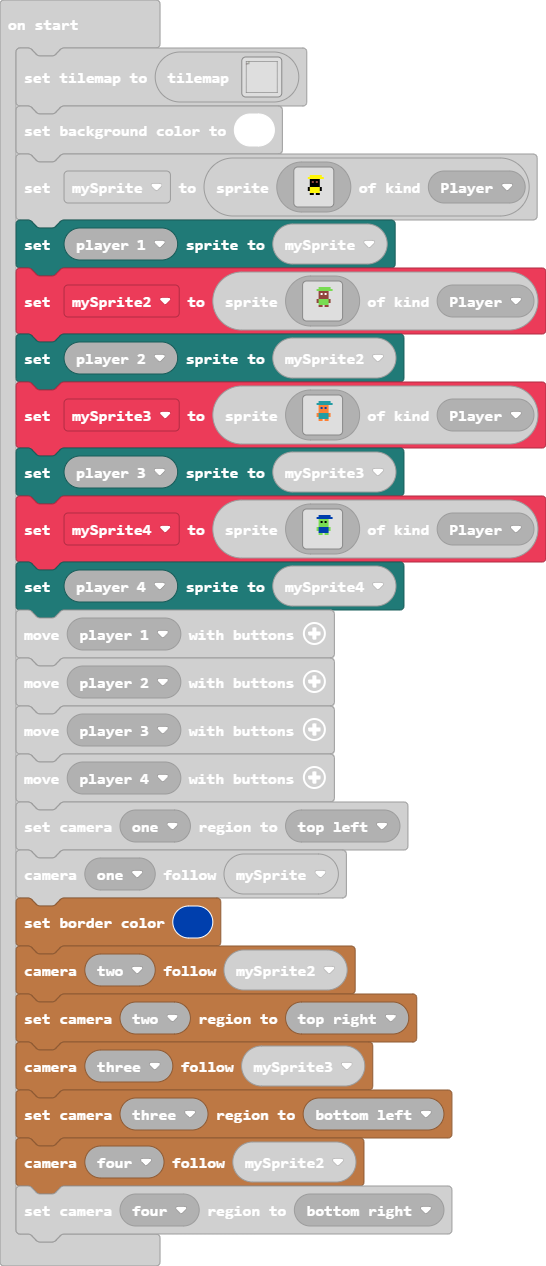
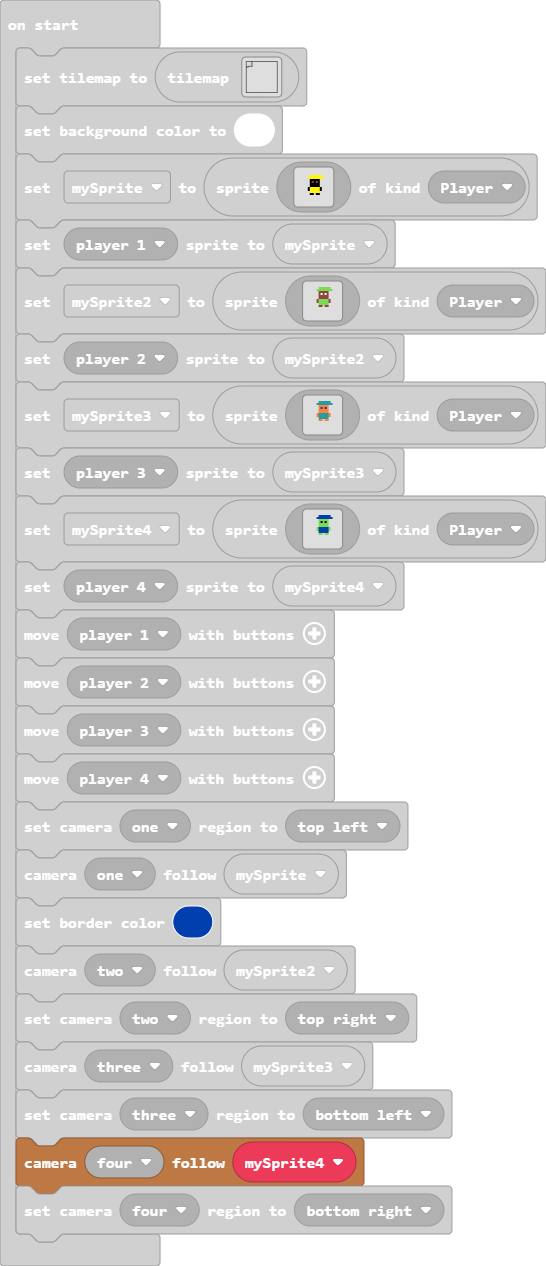
Update main.blocks, main.ts, tilemap.g.jres, tilemap.g.ts

Changed region(s): [[0.0, 0.154, 1.0, 0.4929], [0.0, 0.7085, 0.8407, 0.955]]

diff --git a/tilemap.g.ts b/tilemap.g.ts
@@ -73,107 +73,57 @@ namespace myTiles {
 . . . . . . . . . . . . . . . . 
 `, [myTiles.transparency16], TileScale.Sixteen);
             case "level1":
-            case "level1":return tiles.createTilemap(hex`6400640002020202020202020202020202020202020202020202020202020202020202020202020202020202020202020202020202020202020202020202020202020202020202020202020202020202020202020202020202020202020202020202020202020202020000000000000000020000000000000000000000000000000000000000000000000000000000000000000000000000000000000000000000000000000000000000000000000000000000000000000000000000000000000000000000000000000000020200000000000000000500000000000000000000000000000000000000000000000000000000000000000000000000000000000000000000000000000000000000000000000000000000000000000000000000000000000000000000000000000000000202000000000000000002000000000000000000000000000000000000000000000000000000000000000000000000000000000000000000000000000000000000000000000000000000000000000000000000000000000000000000000000000000000002020000000000000000020000000000000000000000000000000000000000000000000000000000000000000000000000000000000000000000000000000000000000000000000000000000000000000000000000000000000000000000000000000000020200000000000000000300000000000000000000000000000000000000000000000000000000000000000000000000000000000000000000000000000000000000000000000000000000000000000000000000000000000000000000000000000000000202000000000000000002000000000000000000000000000000000000000000000000000000000000000000000000000000000000000000000000000000000000000000000000000000000000000000000000000000000000000000000000000000000002020000000000000000020000000000000000000000000000000000000000000000000000000000000000000000000000000000000000000000000000000000000000000000000000000000000000000000000000000000000000000000000000000000020200000202020204020200000000000000000000000000000000000000000000000000000000000000000000000000000000000000000000000000000000000000000000000000000000000000000000000000000000000000000000000000000000000202020102000000000000000000000000000000000000000000000000000000000000000000000000000000000000000000000000000000000000000000000000000000000000000000000000000000000000000000000000000000000000000000000002020000000000000000000000000000000000000000000000000000000000000000000000000000000000000000000000000000000000000000000000000000000000000000000000000000000000000000000000000000000000000000000000000000020200000000000000000000000000000000000000000000000000000000000000000000000000000000000000000000000000000000000000000000000000000000000000000000000000000000000000000000000000000000000000000000000000000202000000000000000000000000000000000000000000000000000000000000000000000000000000000000000000000000000000000000000000000000000000000000000000000000000000000000000000000000000000000000000000000000000002020000000000000000000000000000000000000000000000000000000000000000000000000000000000000000000000000000000000000000000000000000000000000000000000000000000000000000000000000000000000000000000000000000020200000000000000000000000000000000000000000000000000000000000000000000000000000000000000000000000000000000000000000000000000000000000000000000000000000000000000000000000000000000000000000000000000000202000000000000000000000000000000000000000000000000000000000000000000000000000000000000000000000000000000000000000000000000000000000000000000000000000000000000000000000000000000000000000000000000000002020000000000000000000000000000000000000000000000000000000000000000000000000000000000000000000000000000000000000000000000000000000000000000000000000000000000000000000000000000000000000000000000000000020200000000000000000000000000000000000000000000000000000000000000000000000000000000000000000000000000000000000000000000000000000000000000000000000000000000000000000000000000000000000000000000000000000202000000000000000000000000000000000000000000000000000000000000000000000000000000000000000000000000000000000000000000000000000000000000000000000000000000000000000000000000000000000000000000000000000002020000000000000000000000000000000000000000000000000000000000000000000000000000000000000000000000000000000000000000000000000000000000000000000000000000000000000000000000000000000000000000000000000000020200000000000000000000000000000000000000000000000000000000000000000000000000000000000000000000000000000000000000000000000000000000000000000000000000000000000000000000000000000000000000000000000000000202000000000000000000000000000000000000000000000000000000000000000000000000000000000000000000000000000000000000000000000000000000000000000000000000000000000000000000000000000000000000000000000000000002020000000000000000000000000000000000000000000000000000000000000000000000000000000000000000000000000000000000000000000000000000000000000000000000000000000000000000000000000000000000000000000000000000020200000000000000000000000000000000000000000000000000000000000000000000000000000000000000000000000000000000000000000000000000000000000000000000000000000000000000000000000000000000000000000000000000000202000000000000000000000000000000000000000000000000000000000000000000000000000000000000000000000000000000000000000000000000000000000000000000000000000000000000000000000000000000000000000000000000000002020000000000000000000000000000000000000000000000000000000000000000000000000000000000000000000000000000000000000000000000000000000000000000000000000000000000000000000000000000000000000000000000000000020200000000000000000000000000000000000000000000000000000000000000000000000000000000000000000000000000000000000000000000000000000000000000000000000000000000000000000000000000000000000000000000000000000202000000000000000000000000000000000000000000000000000000000000000000000000000000000000000000000000000000000000000000000000000000000000000000000000000000000000000000000000000000000000000000000000000002020000000000000000000000000000000000000000000000000000000000000000000000000000000000000000000000000000000000000000000000000000000000000000000000000000000000000000000000000000000000000000000000000000020200000000000000000000000000000000000000000000000000000000000000000000000000000000000000000000000000000000000000000000000000000000000000000000000000000000000000000000000000000000000000000000000000000202000000000000000000000000000000000000000000000000000000000000000000000000000000000000000000000000000000000000000000000000000000000000000000000000000000000000000000000000000000000000000000000000000002020000000000000000000000000000000000000000000000000000000000000000000000000000000000000000000000000000000000000000000000000000000000000000000000000000000000000000000000000000000000000000000000000000020200000000000000000000000000000000000000000000000000000000000000000000000000000000000000000000000000000000000000000000000000000000000000000000000000000000000000000000000000000000000000000000000000000202000000000000000000000000000000000000000000000000000000000000000000000000000000000000000000000000000000000000000000000000000000000000000000000000000000000000000000000000000000000000000000000000000002020000000000000000000000000000000000000000000000000000000000000000000000000000000000000000000000000000000000000000000000000000000000000000000000000000000000000000000000000000000000000000000000000000020200000000000000000000000000000000000000000000000000000000000000000000000000000000000000000000000000000000000000000000000000000000000000000000000000000000000000000000000000000000000000000000000000000202000000000000000000000000000000000000000000000000000000000000000000000000000000000000000000000000000000000000000000000000000000000000000000000000000000000000000000000000000000000000000000000000000002020000000000000000000000000000000000000000000000000000000000000000000000000000000000000000000000000000000000000000000000000000000000000000000000000000000000000000000000000000000000000000000000000000020200000000000000000000000000000000000000000000000000000000000000000000000000000000000000000000000000000000000000000000000000000000000000000000000000000000000000000000000000000000000000000000000000000202000000000000000000000000000000000000000000000000000000000000000000000000000000000000000000000000000000000000000000000000000000000000000000000000000000000000000000000000000000000000000000000000000002020000000000000000000000000000000000000000000000000000000000000000000000000000000000000000000000000000000000000000000000000000000000000000000000000000000000000000000000000000000000000000000000000000020200000000000000000000000000000000000000000000000000000000000000000000000000000000000000000000000000000000000000000000000000000000000000000000000000000000000000000000000000000000000000000000000000000202000000000000000000000000000000000000000000000000000000000000000000000000000000000000000000000000000000000000000000000000000000000000000000000000000000000000000000000000000000000000000000000000000002020000000000000000000000000000000000000000000000000000000000000000000000000000000000000000000000000000000000000000000000000000000000000000000000000000000000000000000000000000000000000000000000000000020200000000000000000000000000000000000000000000000000000000000000000000000000000000000000000000000000000000000000000000000000000000000000000000000000000000000000000000000000000000000000000000000000000202000000000000000000000000000000000000000000000000000000000000000000000000000000000000000000000000000000000000000000000000000000000000000000000000000000000000000000000000000000000000000000000000000002020000000000000000000000000000000000000000000000000000000000000000000000000000000000000000000000000000000000000000000000000000000000000000000000000000000000000000000000000000000000000000000000000000020200000000000000000000000000000000000000000000000000000000000000000000000000000000000000000000000000000000000000000000000000000000000000000000000000000000000000000000000000000000000000000000000000000202000000000000000000000000000000000000000000000000000000000000000000000000000000000000000000000000000000000000000000000000000000000000000000000000000000000000000000000000000000000000000000000000000002020000000000000000000000000000000000000000000000000000000000000000000000000000000000000000000000000000000000000000000000000000000000000000000000000000000000000000000000000000000000000000000000000000020200000000000000000000000000000000000000000000000000000000000000000000000000000000000000000000000000000000000000000000000000000000000000000000000000000000000000000000000000000000000000000000000000000202000000000000000000000000000000000000000000000000000000000000000000000000000000000000000000000000000000000000000000000000000000000000000000000000000000000000000000000000000000000000000000000000000002020000000000000000000000000000000000000000000000000000000000000000000000000000000000000000000000000000000000000000000000000000000000000000000000000000000000000000000000000000000000000000000000000000020200000000000000000000000000000000000000000000000000000000000000000000000000000000000000000000000000000000000000000000000000000000000000000000000000000000000000000000000000000000000000000000000000000202000000000000000000000000000000000000000000000000000000000000000000000000000000000000000000000000000000000000000000000000000000000000000000000000000000000000000000000000000000000000000000000000000002020000000000000000000000000000000000000000000000000000000000000000000000000000000000000000000000000000000000000000000000000000000000000000000000000000000000000000000000000000000000000000000000000000020200000000000000000000000000000000000000000000000000000000000000000000000000000000000000000000000000000000000000000000000000000000000000000000000000000000000000000000000000000000000000000000000000000202000000000000000000000000000000000000000000000000000000000000000000000000000000000000000000000000000000000000000000000000000000000000000000000000000000000000000000000000000000000000000000000000000002020000000000000000000000000000000000000000000000000000000000000000000000000000000000000000000000000000000000000000000000000000000000000000000000000000000000000000000000000000000000000000000000000000020200000000000000000000000000000000000000000000000000000000000000000000000000000000000000000000000000000000000000000000000000000000000000000000000000000000000000000000000000000000000000000000000000000202000000000000000000000000000000000000000000000000000000000000000000000000000000000000000000000000000000000000000000000000000000000000000000000000000000000000000000000000000000000000000000000000000002020000000000000000000000000000000000000000000000000000000000000000000000000000000000000000000000000000000000000000000000000000000000000000000000000000000000000000000000000000000000000000000000000000020200000000000000000000000000000000000000000000000000000000000000000000000000000000000000000000000000000000000000000000000000000000000000000000000000000000000000000000000000000000000000000000000000000202000000000000000000000000000000000000000000000000000000000000000000000000000000000000000000000000000000000000000000000000000000000000000000000000000000000000000000000000000000000000000000000000000002020000000000000000000000000000000000000000000000000000000000000000000000000000000000000000000000000000000000000000000000000000000000000000000000000000000000000000000000000000000000000000000000000000020200000000000000000000000000000000000000000000000000000000000000000000000000000000000000000000000000000000000000000000000000000000000000000000000000000000000000000000000000000000000000000000000000000202000000000000000000000000000000000000000000000000000000000000000000000000000000000000000000000000000000000000000000000000000000000000000000000000000000000000000000000000000000000000000000000000000002020000000000000000000000000000000000000000000000000000000000000000000000000000000000000000000000000000000000000000000000000000000000000000000000000000000000000000000000000000000000000000000000000000020200000000000000000000000000000000000000000000000000000000000000000000000000000000000000000000000000000000000000000000000000000000000000000000000000000000000000000000000000000000000000000000000000000202000000000000000000000000000000000000000000000000000000000000000000000000000000000000000000000000000000000000000000000000000000000000000000000000000000000000000000000000000000000000000000000000000002020000000000000000000000000000000000000000000000000000000000000000000000000000000000000000000000000000000000000000000000000000000000000000000000000000000000000000000000000000000000000000000000000000020200000000000000000000000000000000000000000000000000000000000000000000000000000000000000000000000000000000000000000000000000000000000000000000000000000000000000000000000000000000000000000000000000000202000000000000000000000000000000000000000000000000000000000000000000000000000000000000000000000000000000000000000000000000000000000000000000000000000000000000000000000000000000000000000000000000000002020000000000000000000000000000000000000000000000000000000000000000000000000000000000000000000000000000000000000000000000000000000000000000000000000000000000000000000000000000000000000000000000000000020200000000000000000000000000000000000000000000000000000000000000000000000000000000000000000000000000000000000000000000000000000000000000000000000000000000000000000000000000000000000000000000000000000202000000000000000000000000000000000000000000000000000000000000000000000000000000000000000000000000000000000000000000000000000000000000000000000000000000000000000000000000000000000000000000000000000002020000000000000000000000000000000000000000000000000000000000000000000000000000000000000000000000000000000000000000000000000000000000000000000000000000000000000000000000000000000000000000000000000000020200000000000000000000000000000000000000000000000000000000000000000000000000000000000000000000000000000000000000000000000000000000000000000000000000000000000000000000000000000000000000000000000000000202000000000000000000000000000000000000000000000000000000000000000000000000000000000000000000000000000000000000000000000000000000000000000000000000000000000000000000000000000000000000000000000000000002020000000000000000000000000000000000000000000000000000000000000000000000000000000000000000000000000000000000000000000000000000000000000000000000000000000000000000000000000000000000000000000000000000020200000000000000000000000000000000000000000000000000000000000000000000000000000000000000000000000000000000000000000000000000000000000000000000000000000000000000000000000000000000000000000000000000000202000000000000000000000000000000000000000000000000000000000000000000000000000000000000000000000000000000000000000000000000000000000000000000000000000000000000000000000000000000000000000000000000000002020000000000000000000000000000000000000000000000000000000000000000000000000000000000000000000000000000000000000000000000000000000000000000000000000000000000000000000000000000000000000000000000000000020200000000000000000000000000000000000000000000000000000000000000000000000000000000000000000000000000000000000000000000000000000000000000000000000000000000000000000000000000000000000000000000000000000202000000000000000000000000000000000000000000000000000000000000000000000000000000000000000000000000000000000000000000000000000000000000000000000000000000000000000000000000000000000000000000000000000002020000000000000000000000000000000000000000000000000000000000000000000000000000000000000000000000000000000000000000000000000000000000000000000000000000000000000000000000000000000000000000000000000000020200000000000000000000000000000000000000000000000000000000000000000000000000000000000000000000000000000000000000000000000000000000000000000000000000000000000000000000000000000000000000000000000000000202000000000000000000000000000000000000000000000000000000000000000000000000000000000000000000000000000000000000000000000000000000000000000000000000000000000000000000000000000000000000000000000000000002020000000000000000000000000000000000000000000000000000000000000000000000000000000000000000000000000000000000000000000000000000000000000000000000000000000000000000000000000000000000000000000000000000020200000000000000000000000000000000000000000000000000000000000000000000000000000000000000000000000000000000000000000000000000000000000000000000000000000000000000000000000000000000000000000000000000000202000000000000000000000000000000000000000000000000000000000000000000000000000000000000000000000000000000000000000000000000000000000000000000000000000000000000000000000000000000000000000000000000000002020000000000000000000000000000000000000000000000000000000000000000000000000000000000000000000000000000000000000000000000000000000000000000000000000000000000000000000000000000000000000000000000000000020200000000000000000000000000000000000000000000000000000000000000000000000000000000000000000000000000000000000000000000000000000000000000000000000000000000000000000000000000000000000000000000000000000202000000000000000000000000000000000000000000000000000000000000000000000000000000000000000000000000000000000000000000000000000000000000000000000000000000000000000000000000000000000000000000000000000002020000000000000000000000000000000000000000000000000000000000000000000000000000000000000000000000000000000000000000000000000000000000000000000000000000000000000000000000000000000000000000000000000000020200000000000000000000000000000000000000000000000000000000000000000000000000000000000000000000000000000000000000000000000000000000000000000000000000000000000000000000000000000000000000000000000000000202000000000000000000000000000000000000000000000000000000000000000000000000000000000000000000000000000000000000000000000000000000000000000000000000000000000000000000000000000000000000000000000000000002020000000000000000000000000000000000000000000000000000000000000000000000000000000000000000000000000000000000000000000000000000000000000000000000000000000000000000000000000000000000000000000000000000020200000000000000000000000000000000000000000000000000000000000000000000000000000000000000000000000000000000000000000000000000000000000000000000000000000000000000000000000000000000000000000000000000000202020202020202020202020202020202020202020202020202020202020202020202020202020202020202020202020202020202020202020202020202020202020202020202020202020202020202020202020202020202020202020202020202020202`, img`
-2222222222222222222222222222222222222222222222222222222222222222222222222222222222222222222222222222
-2........2.........................................................................................2
-2..................................................................................................2
-2........2.........................................................................................2
-2........2.........................................................................................2
-2..................................................................................................2
-2........2.........................................................................................2
-2........2.........................................................................................2
-2..2222.22.........................................................................................2
-22.2...............................................................................................2
-2..................................................................................................2
-2..................................................................................................2
-2..................................................................................................2
-2..................................................................................................2
-2..................................................................................................2
-2..................................................................................................2
-2..................................................................................................2
-2..................................................................................................2
-2..................................................................................................2
-2..................................................................................................2
-2..................................................................................................2
-2..................................................................................................2
-2..................................................................................................2
-2..................................................................................................2
-2..................................................................................................2
-2..................................................................................................2
-2..................................................................................................2
-2..................................................................................................2
-2..................................................................................................2
-2..................................................................................................2
-2..................................................................................................2
-2..................................................................................................2
-2..................................................................................................2
-2..................................................................................................2
-2..................................................................................................2
-2..................................................................................................2
-2..................................................................................................2
-2..................................................................................................2
-2..................................................................................................2
-2..................................................................................................2
-2..................................................................................................2
-2..................................................................................................2
-2..................................................................................................2
-2..................................................................................................2
-2..................................................................................................2
-2..................................................................................................2
-2..................................................................................................2
-2..................................................................................................2
-2..................................................................................................2
-2..................................................................................................2
-2..................................................................................................2
-2..................................................................................................2
-2..................................................................................................2
-2..................................................................................................2
-2..................................................................................................2
-2..................................................................................................2
-2..................................................................................................2
-2..................................................................................................2
-2..................................................................................................2
-2..................................................................................................2
-2..................................................................................................2
-2..................................................................................................2
-2..................................................................................................2
-2..................................................................................................2
-2..................................................................................................2
-2..................................................................................................2
-2..................................................................................................2
-2..................................................................................................2
-2..................................................................................................2
-2..................................................................................................2
-2..................................................................................................2
-2..................................................................................................2
-2..................................................................................................2
-2..................................................................................................2
-2..................................................................................................2
-2..................................................................................................2
-2..................................................................................................2
-2..................................................................................................2
-2..................................................................................................2
-2..................................................................................................2
-2..................................................................................................2
-2..................................................................................................2
-2..................................................................................................2
-2..................................................................................................2
-2..................................................................................................2
-2..................................................................................................2
-2..................................................................................................2
-2..................................................................................................2
-2..................................................................................................2
-2..................................................................................................2
-2..................................................................................................2
-2..................................................................................................2
-2..................................................................................................2
-2..................................................................................................2
-2..................................................................................................2
-2..................................................................................................2
-2..................................................................................................2
-2..................................................................................................2
-2..................................................................................................2
-2222222222222222222222222222222222222222222222222222222222222222222222222222222222222222222222222222
+            case "level1":return tiles.createTilemap(hex`3200320002020202020202020202020202020202020202020202020202020202020202020202020202020202020202020202020202020200000000000000000200000000000000000000000000000000000000000000000000000000000000000000000000000002020000000000000000050000000000000000000000000000000000000000000000000000000000000000000000000000000202000000000000000002000000000000000000000000000000000000000000000000000000000000000000000000000000020200000000000000000200000000000000000000000000000000000000000000000000000000000000000000000000000002020000000000000000030000000000000000000000000000000000000000000000000000000000000000000000000000000202000000000000000002000000000000000000000000000000000000000000000000000000000000000000000000000000020200000000000000000200000000000000000000000000000000000000000000000000000000000000000000000000000002020000020202020402020000000000000000000000000000000000000000000000000000000000000000000000000000000202020102000000000000000000000000000000000000000000000000000000000000000000000000000000000000000000020200000000000000000000000000000000000000000000000000000000000000000000000000000000000000000000000002020000000000000000000000000000000000000000000000000000000000000000000000000000000000000000000000000202000000000000000000000000000000000000000000000000000000000000000000000000000000000000000000000000020200000000000000000000000000000000000000000000000000000000000000000000000000000000000000000000000002020000000000000000000000000000000000000000000000000000000000000000000000000000000000000000000000000202000000000000000000000000000000000000000000000000000000000000000000000000000000000000000000000000020200000000000000000000000000000000000000000000000000000000000000000000000000000000000000000000000002020000000000000000000000000000000000000000000000000000000000000000000000000000000000000000000000000202000000000000000000000000000000000000000000000000000000000000000000000000000000000000000000000000020200000000000000000000000000000000000000000000000000000000000000000000000000000000000000000000000002020000000000000000000000000000000000000000000000000000000000000000000000000000000000000000000000000202000000000000000000000000000000000000000000000000000000000000000000000000000000000000000000000000020200000000000000000000000000000000000000000000000000000000000000000000000000000000000000000000000002020000000000000000000000000000000000000000000000000000000000000000000000000000000000000000000000000202000000000000000000000000000000000000000000000000000000000000000000000000000000000000000000000000020200000000000000000000000000000000000000000000000000000000000000000000000000000000000000000000000002020000000000000000000000000000000000000000000000000000000000000000000000000000000000000000000000000202000000000000000000000000000000000000000000000000000000000000000000000000000000000000000000000000020200000000000000000000000000000000000000000000000000000000000000000000000000000000000000000000000002020000000000000000000000000000000000000000000000000000000000000000000000000000000000000000000000000202000000000000000000000000000000000000000000000000000000000000000000000000000000000000000000000000020200000000000000000000000000000000000000000000000000000000000000000000000000000000000000000000000002020000000000000000000000000000000000000000000000000000000000000000000000000000000000000000000000000202000000000000000000000000000000000000000000000000000000000000000000000000000000000000000000000000020200000000000000000000000000000000000000000000000000000000000000000000000000000000000000000000000002020000000000000000000000000000000000000000000000000000000000000000000000000000000000000000000000000202000000000000000000000000000000000000000000000000000000000000000000000000000000000000000000000000020200000000000000000000000000000000000000000000000000000000000000000000000000000000000000000000000002020000000000000000000000000000000000000000000000000000000000000000000000000000000000000000000000000202000000000000000000000000000000000000000000000000000000000000000000000000000000000000000000000000020200000000000000000000000000000000000000000000000000000000000000000000000000000000000000000000000002020000000000000000000000000000000000000000000000000000000000000000000000000000000000000000000000000202000000000000000000000000000000000000000000000000000000000000000000000000000000000000000000000000020200000000000000000000000000000000000000000000000000000000000000000000000000000000000000000000000002020000000000000000000000000000000000000000000000000000000000000000000000000000000000000000000000000202000000000000000000000000000000000000000000000000000000000000000000000000000000000000000000000000020200000000000000000000000000000000000000000000000000000000000000000000000000000000000000000000000002020000000000000000000000000000000000000000000000000000000000000000000000000000000000000000000000000202000000000000000000000000000000000000000000000000000000000000000000000000000000000000000000000000020202020202020202020202020202020202020202020202020202020202020202020202020202020202020202020202020202`, img`
+22222222222222222222222222222222222222222222222222
+2........2.......................................2
+2................................................2
+2........2.......................................2
+2........2.......................................2
+2................................................2
+2........2.......................................2
+2........2.......................................2
+2..2222.22.......................................2
+22.2.............................................2
+2................................................2
+2................................................2
+2................................................2
+2................................................2
+2................................................2
+2................................................2
+2................................................2
+2................................................2
+2................................................2
+2................................................2
+2................................................2
+2................................................2
+2................................................2
+2................................................2
+2................................................2
+2................................................2
+2................................................2
+2................................................2
+2................................................2
+2................................................2
+2................................................2
+2................................................2
+2................................................2
+2................................................2
+2................................................2
+2................................................2
+2................................................2
+2................................................2
+2................................................2
+2................................................2
+2................................................2
+2................................................2
+2................................................2
+2................................................2
+2................................................2
+2................................................2
+2................................................2
+2................................................2
+2................................................2
+22222222222222222222222222222222222222222222222222
 `, [myTiles.transparency16,myTiles.tile1,myTiles.tile2,myTiles.tile3,myTiles.tile4,myTiles.tile5], TileScale.Sixteen);
         }
         return null;

diff --git a/main.ts b/main.ts
@@ -87,5 +87,5 @@ splitScreen.cameraFollowSprite(splitScreen.Camera.Camera2, mySprite2)
 splitScreen.setCameraRegion(splitScreen.Camera.Camera2, splitScreen.CameraRegion.TopRight)
 splitScreen.cameraFollowSprite(splitScreen.Camera.Camera3, mySprite3)
 splitScreen.setCameraRegion(splitScreen.Camera.Camera3, splitScreen.CameraRegion.BottomLeft)
-splitScreen.cameraFollowSprite(splitScreen.Camera.Camera4, mySprite2)
+splitScreen.cameraFollowSprite(splitScreen.Camera.Camera4, mySprite4)
 splitScreen.setCameraRegion(splitScreen.Camera.Camera4, splitScreen.CameraRegion.BottomRight)
